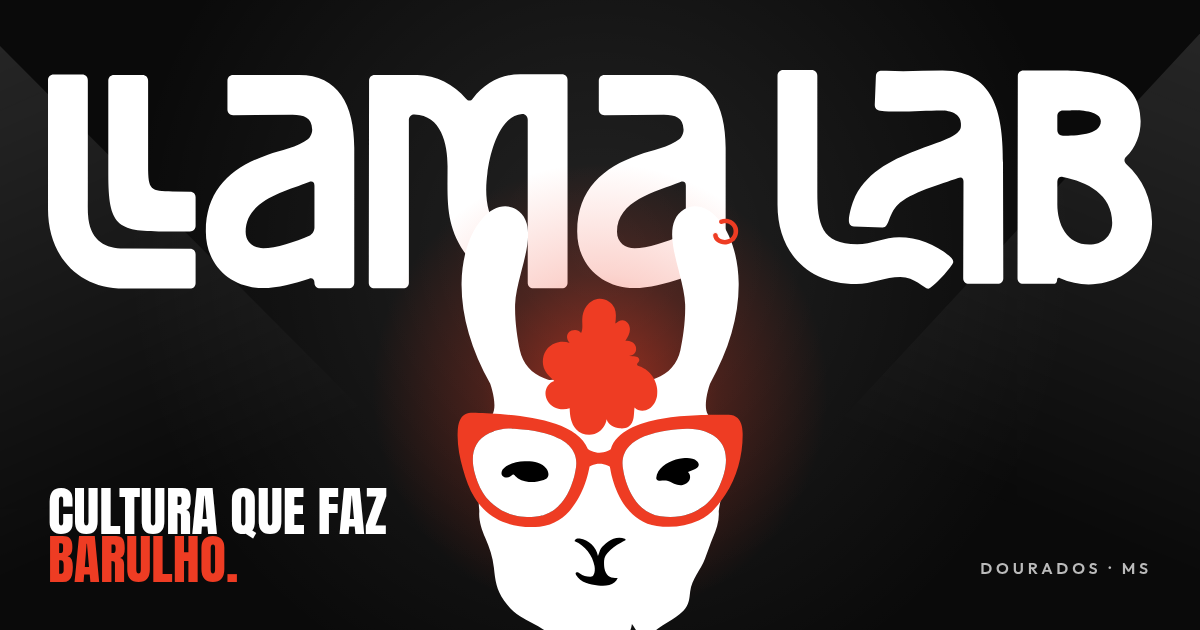
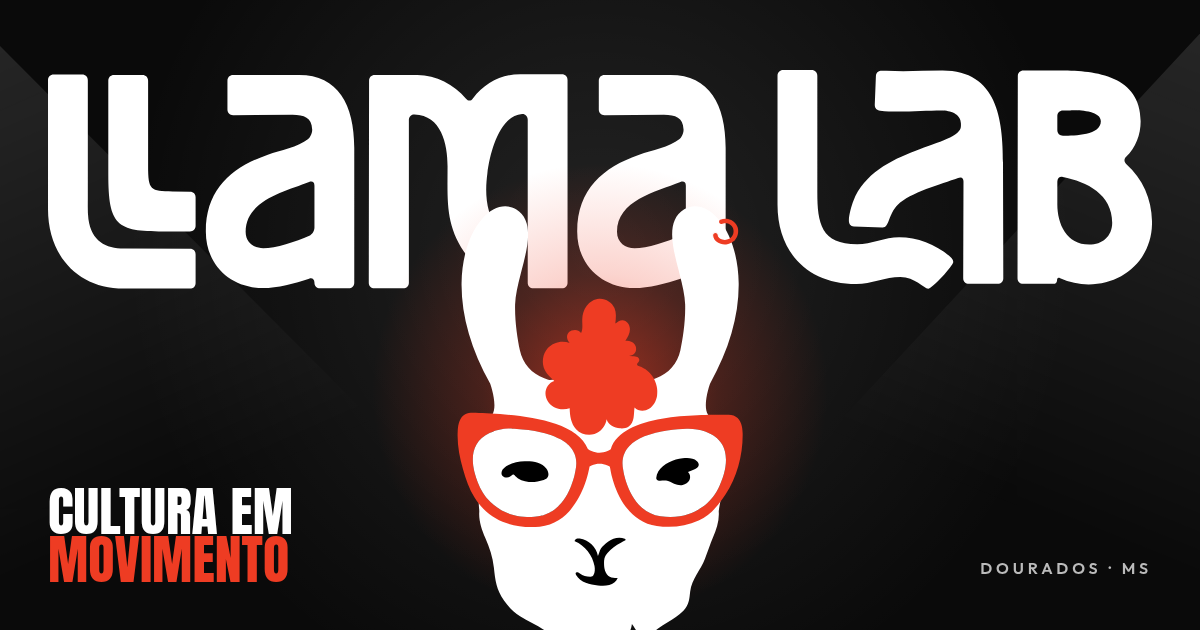
Draw the link preview with the team's new headline, Cultura em movimento
The preview still said "Cultura que faz barulho.", the home page's old headline. The image
is now drawn by scripts/og.mjs from the headline in site.json, with the same wordmark, llama
and light, so it can be drawn again when the team changes it. Its alt text follows the
headline by itself.

Changed region(s): [[0.0308, 0.754, 0.3392, 0.9349]]

diff --git a/src/render/layout.js b/src/render/layout.js
@@ -41,9 +41,12 @@ export function layout(P, opts) {
   const siteTitle = String(seo.title || '').trim() || 'LLama Lab';
   const title = opts.title ? `${opts.title} — LLama Lab` : siteTitle;
   const description = excerpt(opts.description || seo.description || '', 200);
+  // assets/og.png shows the home page's headline (scripts/og.mjs draws it), and so does its alt
+  const hero = P.site.hero || {};
+  const headline = [hero.title, hero.highlight].map((s) => String(s || '').trim()).filter(Boolean).join(' ');
   const image = opts.image && opts.image.src
     ? { url: P.abs(opts.image.src), w: opts.image.w, h: opts.image.h, alt: opts.image.alt }
-    : { url: P.abs('assets/og.png'), w: 1200, h: 630, alt: 'LLama Lab — cultura que faz barulho em Dourados' };
+    : { url: P.abs('assets/og.png'), w: 1200, h: 630, alt: `LLama Lab${headline ? ` — ${headline}` : ''} · Dourados, MS` };
   const v = P.version ? `?v=${P.version}` : '';
   const edit = opts.edit ? ` data-edit="${esc(opts.edit)}"` : '';
   const radioHtml = radio(P);

diff --git a/README.md b/README.md
@@ -153,6 +153,9 @@ For developers:
   policy allows them only as `'self'`, and the preview then shows without its styles.
 - The icons are drawn from the llama in `assets/favicon.svg` by `node scripts/icons.mjs` (needs `rsvg-convert`), into
   `assets/icons/`. Run it again when the llama changes.
+- The link preview image, `assets/og.png`, shows the home page's headline (`hero` in `site.json`). When the team
+  changes the headline, draw it again with `node scripts/og.mjs` (needs Playwright's Chromium). Its alt text follows
+  the headline by itself.
 - If the worker ever misbehaves on visitors' devices, publish a `src/sw.js` that removes itself (keep the `BUILD` line,
   the build fills it in), and devices drop it on their next visit:
 
